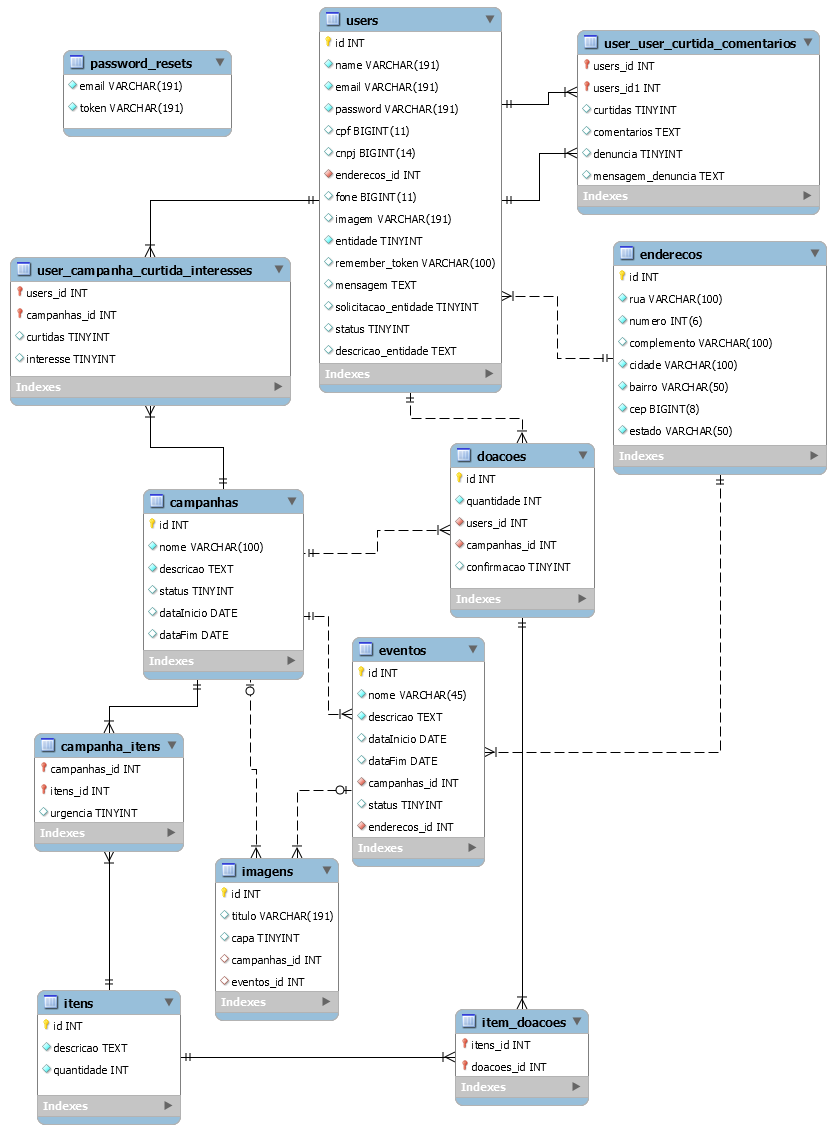
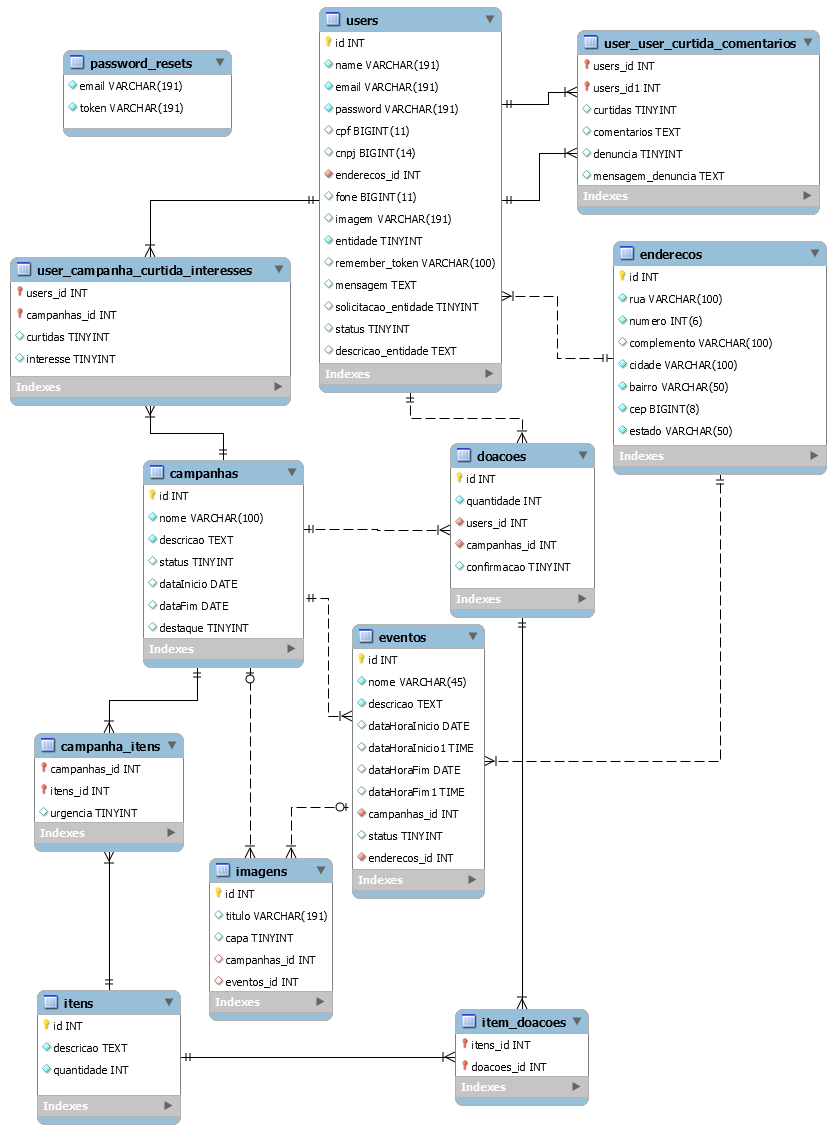
Adicionado alteracoes de er conforme codificacao e ordenacao em administrativo

Changed region(s): [[0.2488, 0.5233, 0.5909, 0.8927], [0.1555, 0.4002, 0.3732, 0.6157], [0.3732, 0.8619, 0.4043, 0.8927]]

diff --git a/resources/assets/js/datatimepicker.js b/resources/assets/js/datatimepicker.js
@@ -1,5 +1,9 @@
-$('#dataHoraInicio').datetimepicker({
+$(function () {
+    $('#dataHoraInicio1').datetimepicker({
+        format: 'HH-mm'
+    });
 });
 
-$('#dataHoraFim').datetimepicker({
-});
+$('#dataHoraFim1').datetimepicker({});
+
+

diff --git a/app/Http/Controllers/EntidadeController.php b/app/Http/Controllers/EntidadeController.php
@@ -20,7 +20,7 @@ class EntidadeController extends Controller
     {
         $entidades = User::where('entidade', 1)
                           -> where('status', 1)
-                          ->orderBy('name')
+                          ->orderBy('id', 'desc')
                           ->get();
         //$entidades = User::all();
         return view('admin/entidades/entidades_list', compact('entidades'));

diff --git a/app/Http/Controllers/UserController.php b/app/Http/Controllers/UserController.php
@@ -17,7 +17,7 @@ class UserController extends Controller
     {
         $users = User::where('entidade', 0)
             ->where('status', 1)
-            ->orderBy('id')
+            ->orderBy('id', 'desc')
             ->get();
         return view('admin/users/users_list', compact('users'));
     }
